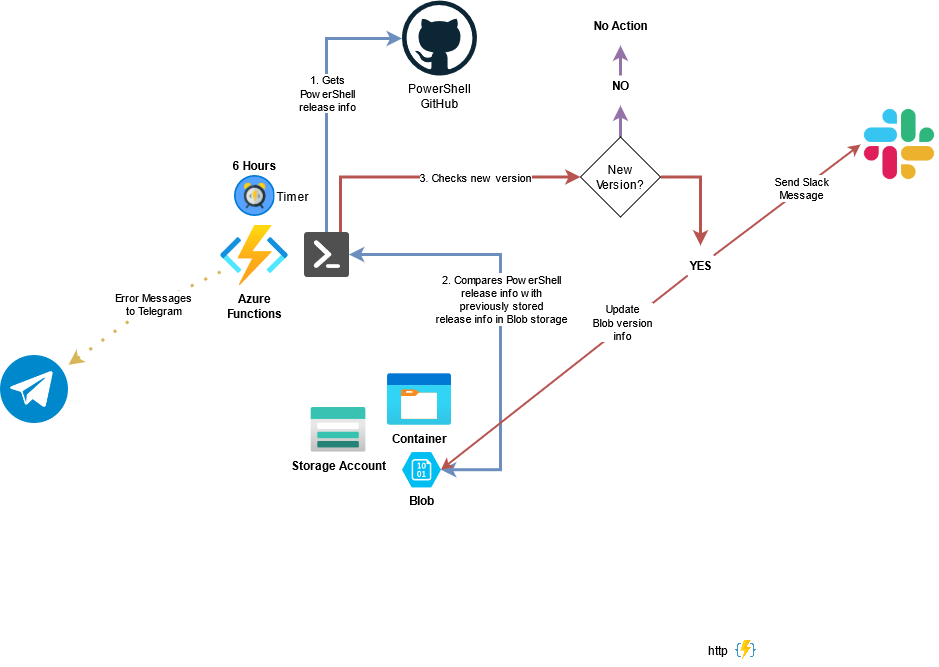
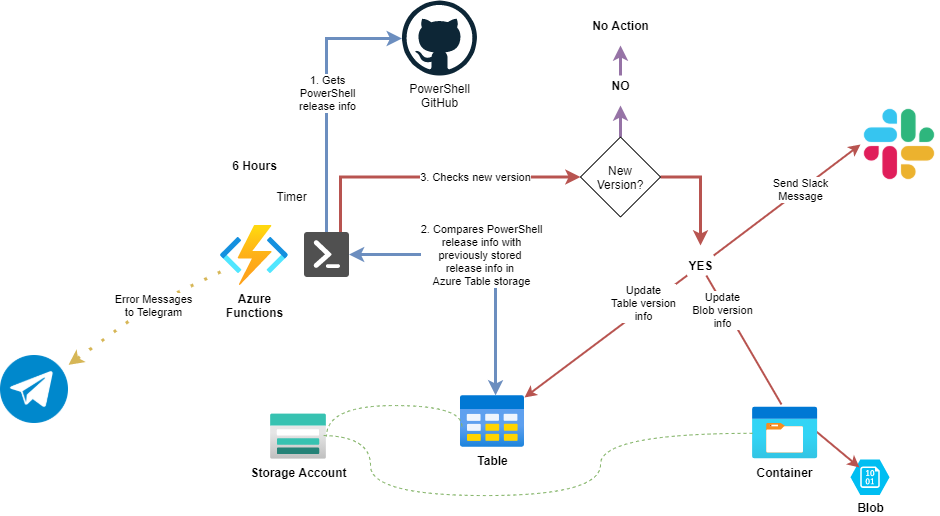
updated diagrams and documentation

diff --git a/README.md b/README.md
@@ -2,7 +2,7 @@
 
 main | dev
 --- | --- |
-![PoshNotify Azure DevOps](https://dev.azure.com/techthoughtsdevops/PoshNotify/_apis/build/status/PoshNotify?branchName=main) | ![PoshNotify Azure DevOps](https://dev.azure.com/techthoughtsdevops/PoshNotify/_apis/build/status/PoshNotify-Dev?branchName=dev)
+![PoshNotify Azure DevOps](https://dev.azure.com/techthoughtsdevops/PoshNotify/_apis/build/status/PoshNotify?branchName=main) | ![PoshNotify Azure DevOps](https://dev.azure.com/JakeMorrison/PoshNotify/_apis/build/status/techthoughts2.PoshNotify?branchName=dev)
 
 ## Synopsis
 
@@ -24,18 +24,20 @@ What can you learn by looking over this project?
 - How to build a custom [PowerShell module](https://docs.microsoft.com/powershell/scripting/developer/module/writing-a-windows-powershell-module?view=powershell-7.1) during the CI/CD process that is intended for use inside your [Azure Functions]((https://docs.microsoft.com/azure/azure-functions/))
 - How to have your PowerShell functions leverage public modules on the PSGallery
 - How to deploy Azure resources using [Bicep](https://github.com/Azure/bicep)
+  - How to store various secrets (such as Storage Access Keys) in Azure Key Vault during the bicep deployment process
+- How to assign permissions to enable your Azure PowerShell Functions to do things like:
+  - Get secrets from Azure Key Vault (slack webhook, SA connection strings)
+  - Write information to blob storage
+  - Write and read to Azure Table Storage
+  - Generate Application Insights information
 - How to run [Azure DevOps on a self hosted pool](https://docs.microsoft.com/azure/devops/pipelines/agents/v2-windows?view=azure-devops)
 - How to format an [Azure DevOps yaml file](https://docs.microsoft.com/azure/devops/pipelines/)
 - How to use PowerShell in an Azure DevOps pipeline deployment
-- How to use [Pester](https://github.com/pester/Pester) in an Azure DevOps pipeline
+- How to use [Pester](https://github.com/pester/Pester) 5 in an Azure DevOps pipeline
 - How to publish test results for beautiful graphs in Azure DevOps
 - How to publish code coverage for beautiful graphs in Azure DevOps
 - How to deploy a separate Dev and Prod stack using Azure DevOps
 - How to properly build and structure Azure PowerShell Functions
-- How to assign permissions to enable your Azure PowerShell Functions to do things like
-  - Get secrets from Azure Key Vault (slack webhook)
-  - Write information to blob storage
-  - Generate Application Insights information
 
 ### PoshNotify High Level Design
 
